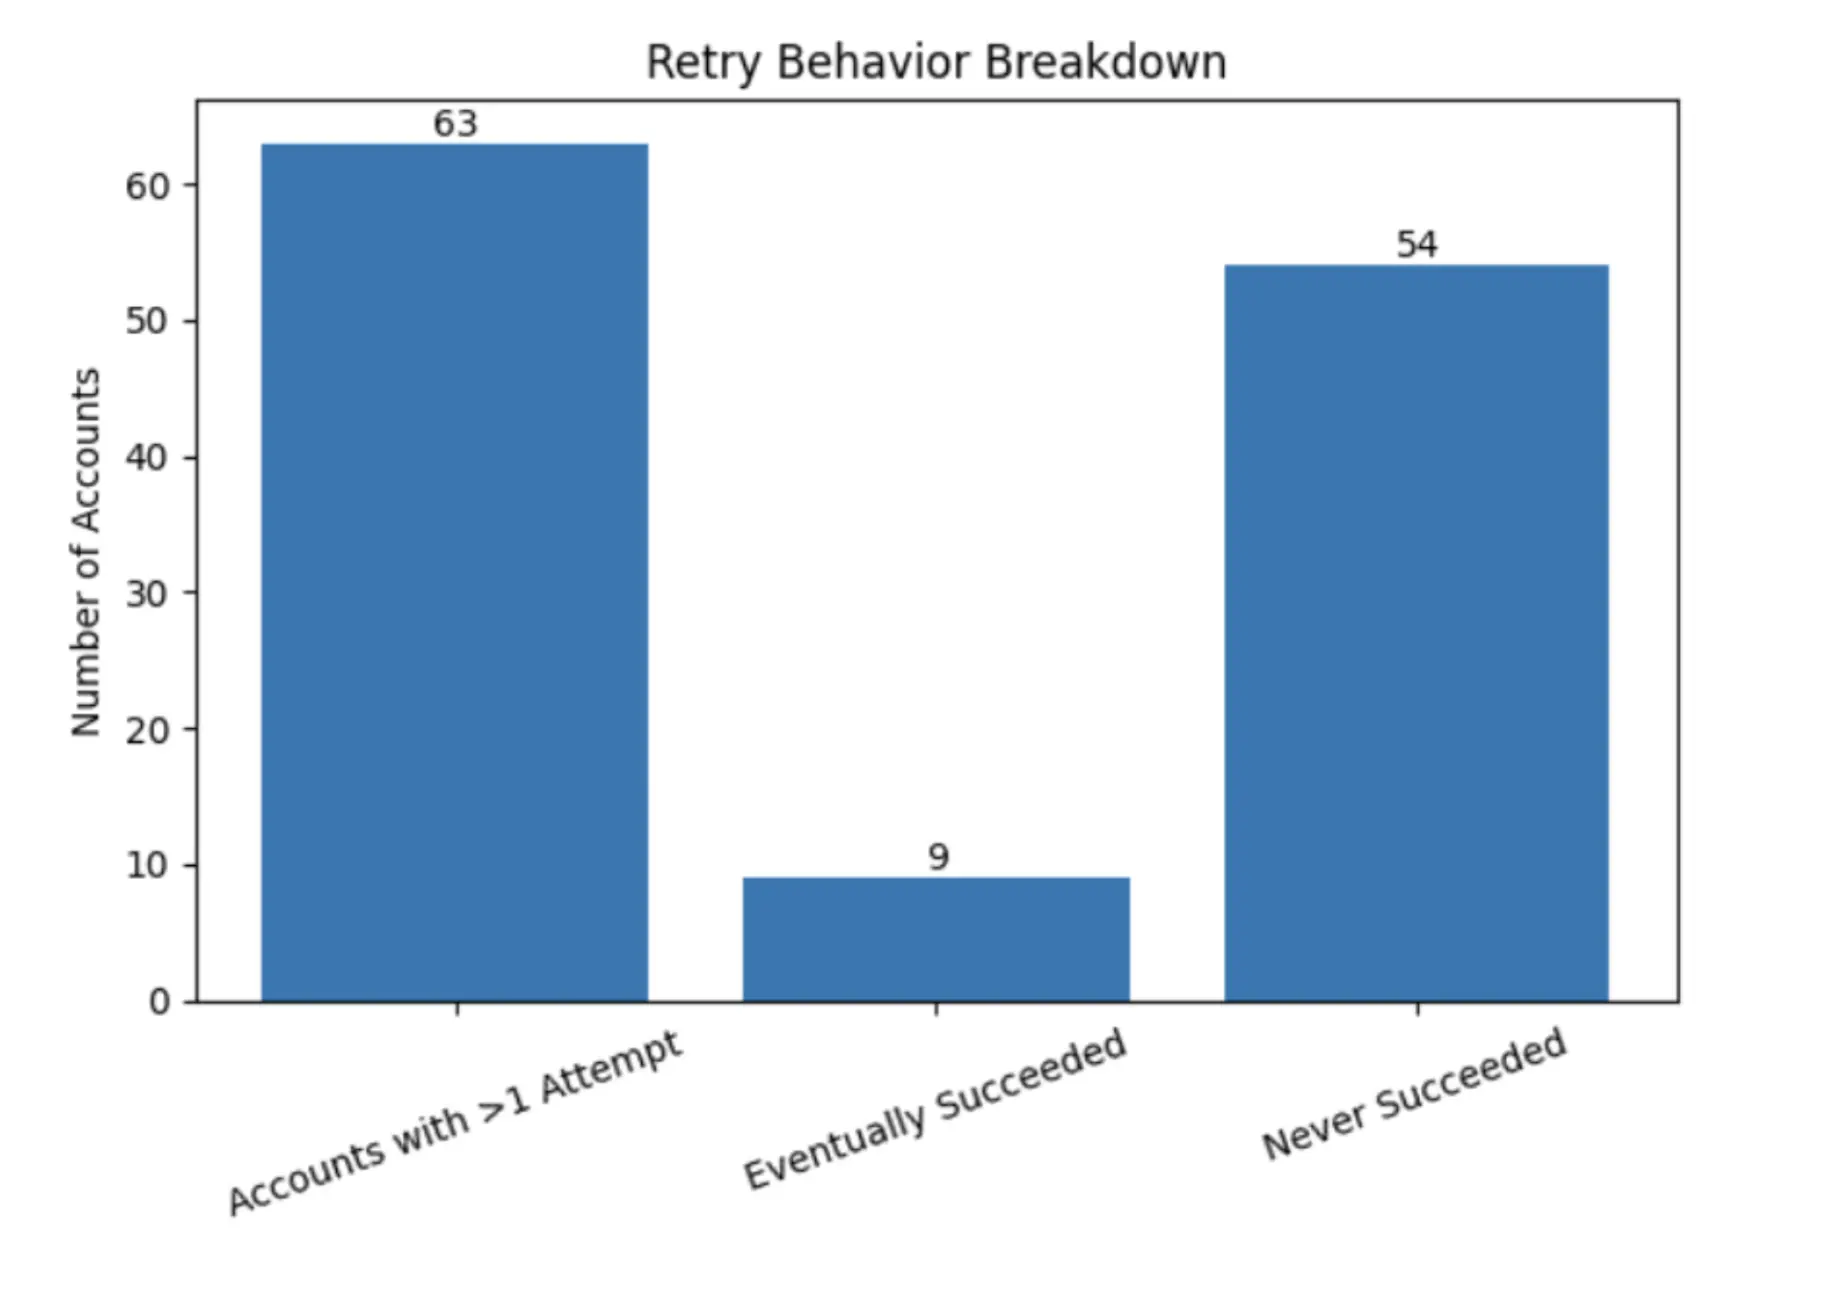
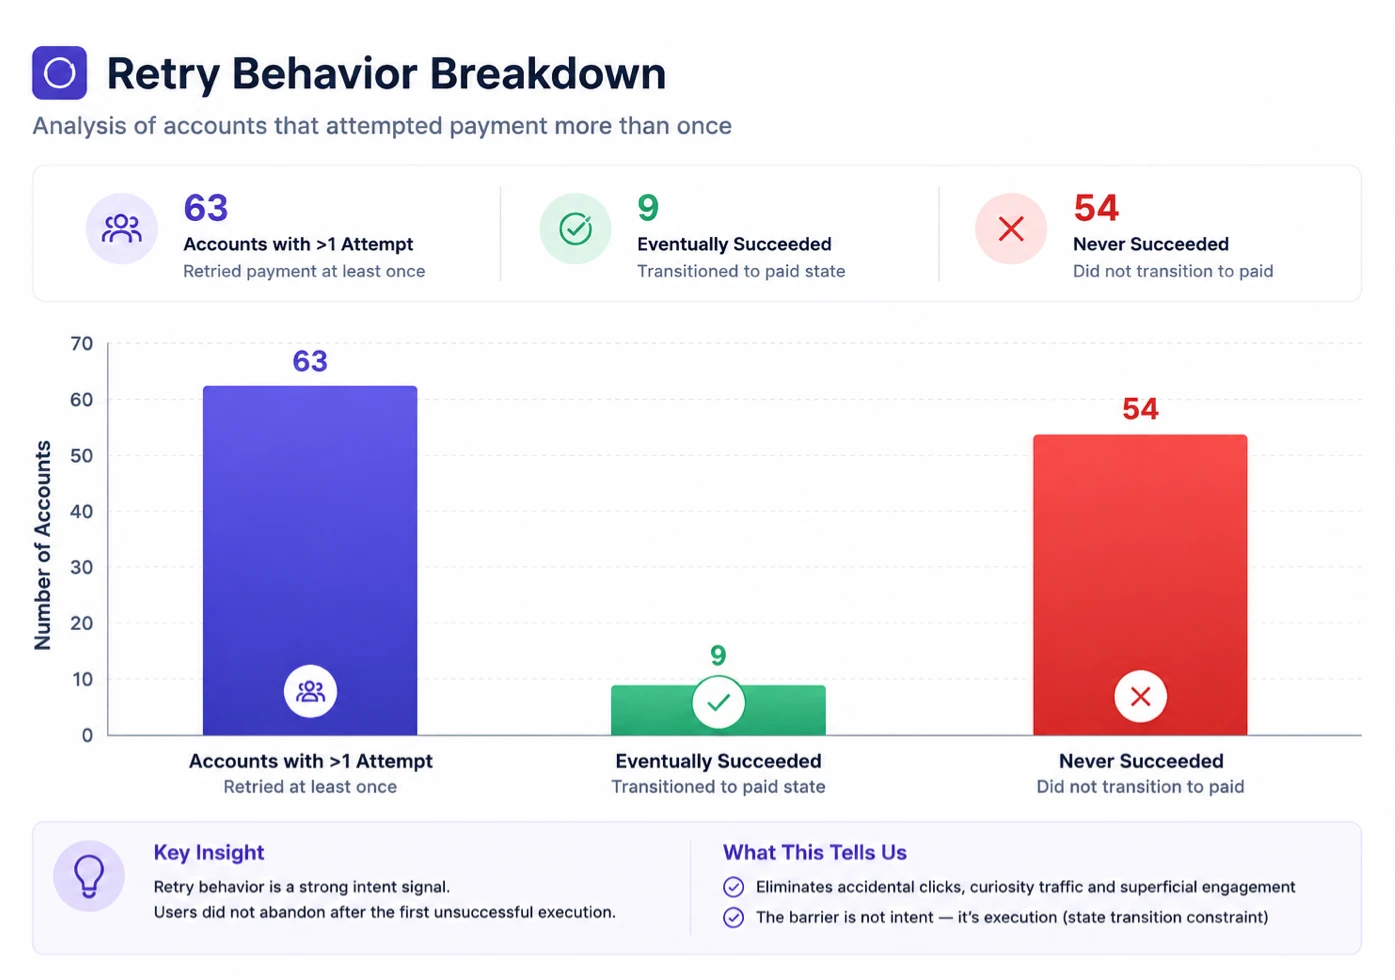
Refresh self-service case study visuals

diff --git a/src/pages/case-studies/invoice-to-paid-billing-diagnostics/index.md b/src/pages/case-studies/invoice-to-paid-billing-diagnostics/index.md
@@ -69,7 +69,7 @@ Provider-level authorization attempts were not directly visible in this dataset.
 
 We are observing billing entities created after explicit payment intent and whether they transitioned into a paid state.
 
-![Observed invoice-to-paid transition by billing status](/images/case-studies/invoice-to-paid-billing-diagnostics/invoice-to-paid-by-status.webp)
+![Aggregate invoice-to-paid pattern across the analysis period](/images/case-studies/invoice-to-paid-billing-diagnostics/aggregate-invoice-to-paid-pattern.webp)
 
 ## 3. Retry Behavior: Strong Intent Signal
 

diff --git a/src/pages/case-studies/payment-diagnostics-revenue-observability/index.md b/src/pages/case-studies/payment-diagnostics-revenue-observability/index.md
@@ -31,6 +31,8 @@ Decompose the end-to-end monetization flow into observable system stages and ide
 - event dependency mapping
 - diagnostic framework for Turkey pilot testing
 
+![Payment diagnostics: 16-step monetization flow with ownership layers and risk zones](/images/case-studies/payment-diagnostics-revenue-observability/payment-diagnostics-16-step-flow.webp)
+
 ## Key Insight
 
 The problem could not yet be attributed to a single bug.
